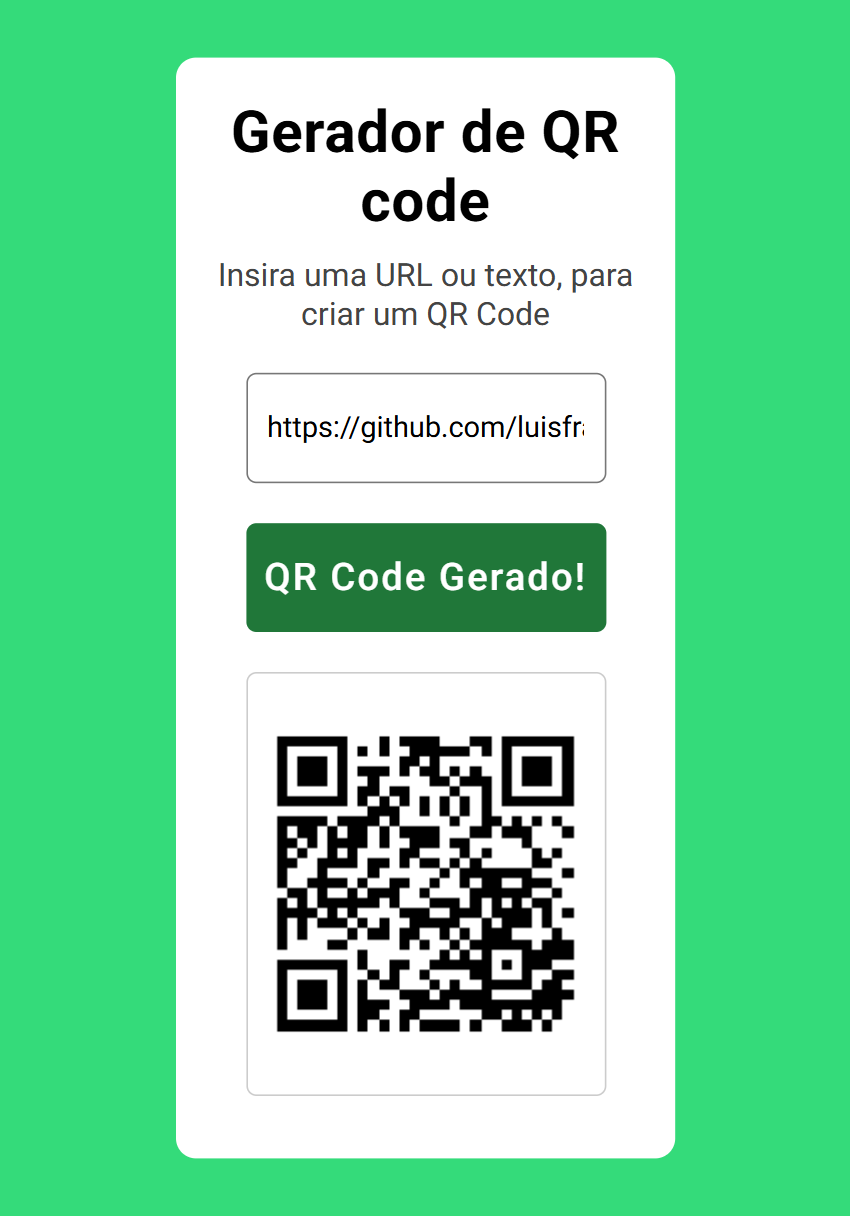
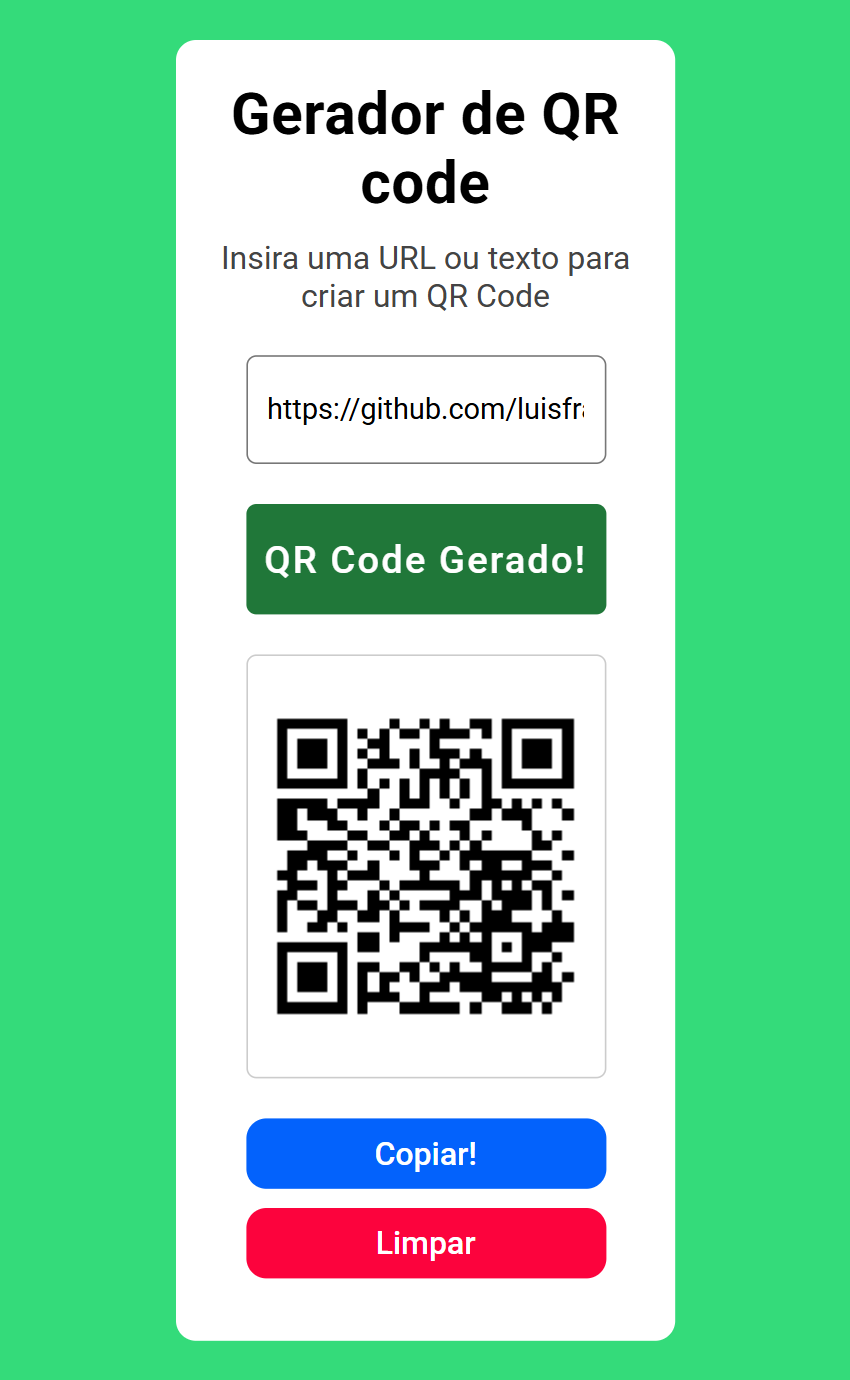
docs: add README

Changed region(s): [[0.1835, 0.3438, 0.7953, 1.0], [0.1835, 0.0312, 0.7953, 0.3125]]

diff --git a/README.md b/README.md
@@ -1,6 +1,6 @@
 # 🎯 QR Code Generator
 
-A modern, responsive, and elegant web application for instant QR Code generation, featuring real-time API integration, dynamic visual states, and clean user experience handling.
+A modern, responsive, and elegant web application for instant QR Code generation, featuring real-time API integration, clipboard support, dynamic visual states, and clean user experience handling.
 
 ---
 
@@ -19,6 +19,7 @@ A modern, responsive, and elegant web application for instant QR Code generation
   - Asynchronous image loading synchronization (`load` event) to ensure seamless UI state transitions.
   - Dynamic event listeners (`click`, `keydown`, `keyup`) handling form input and automatic cleanup.
   - Template literals for dynamic external REST API URL string construction.
+  - Clipboard API (`navigator.clipboard.write`) with `Blob` and `ClipboardItem` for copying the generated QR Code image directly to the system clipboard.
 
 ---
 
@@ -31,6 +32,10 @@ The main objective of this project was to master external API integration, async
 2. **Input Validation & Early Return Guard:** Implementing a secure execution guard (`if (!qrCodeInputValue) return;`) to instantly validate user input, preventing empty requests and optimizing application flow.
 
 3. **Real-time Reactive Cleanup (`keyup` Event):** Monitoring user interactions on-the-fly to detect when the input field is fully cleared (`Back-space`/`Delete`), automatically resetting container visibility and button text states.
+
+4. **Clipboard Integration via Blob Conversion:** Fetching the generated QR Code image (`fetch(qrCodeImg.src)`) and converting the response into a `Blob` to satisfy the Clipboard API's binary data requirement, then writing it to the system clipboard with `navigator.clipboard.write([new ClipboardItem({ [blob.type]: blob })])`.
+
+5. **UI State Consistency Across Actions:** Resetting the copy button's feedback text at the start of each new QR Code generation, ensuring visual feedback from a previous action (e.g., "Copied!") never persists incorrectly onto a newly generated QR Code.
 
 ---
 
